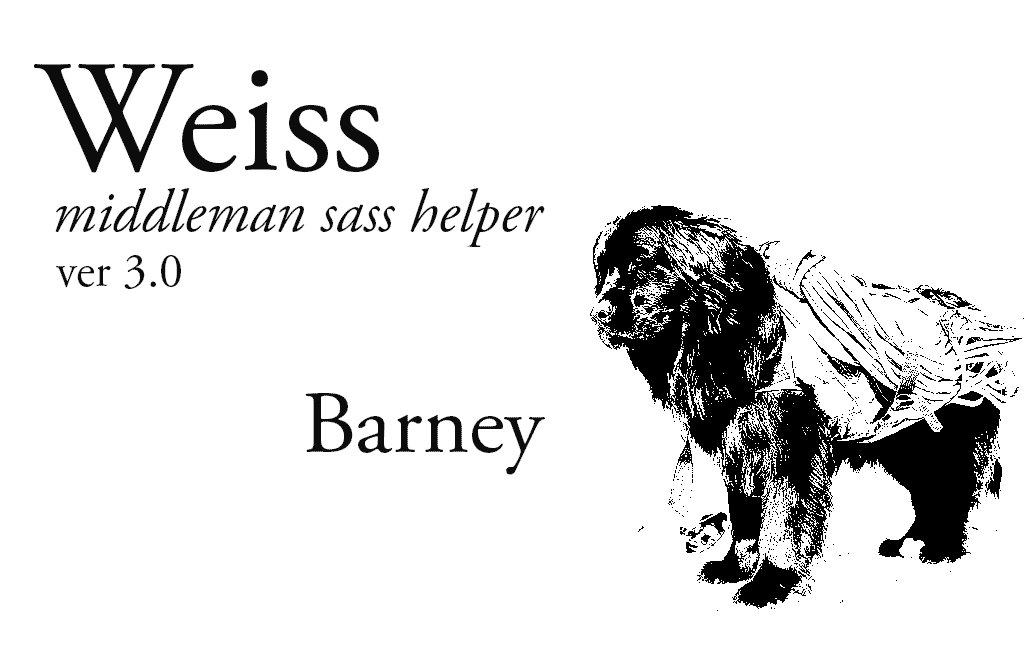
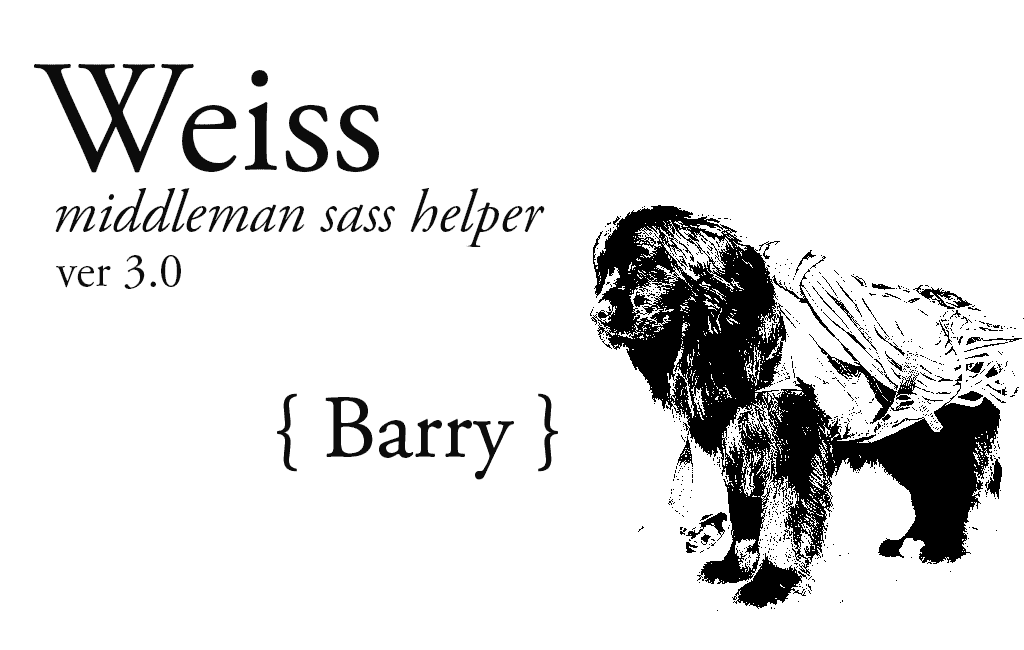
CHANGE: gemfile, Readme, content-example-img

Changed region(s): [[0.25, 0.5846, 0.5625, 0.7385]]

diff --git a/README.md b/README.md
@@ -6,16 +6,25 @@ Some parts are based on works Nicolas Gallagher, Stefan Nitzsche, Tyler Tate, Ya
 
 ## About
 
-Weiss is HTML5-CSS3 blank canvas sass-compass-middleman helper with media query and grid system for fast-start development.
+Weiss is HTML5-CSS3 blank canvas sass-middleman helper for fast-start development.
+Based around tasks and problems that arise with me every day on my work - so in some cases it is not universal or full production ready framework.
 
-Build with HTML5 and large parts of CSS3, included fluid markup and media queries structure, so you can support mobile devices in one CSS file.
-Based around tasks and problems that arise with me every day in my work - so in some cases it is not universal or full production ready framework.
+### Main features:
 
-![Weiss version 3.0 (Barney)](https://raw.github.com/dimanech/weiss/master/source/images/example/content-example-img.png)
+* Not a prototyping tool like Bootstrap or Foundation, just blank canvas
+* Middelman/sass/compass
+* BEM structure of blocks
+* HTML5 semantic markup
+* CSS3 ready with mixins for working with vendor prefixes
+* Media Query structure and mixins
+* WAI ARIA support
+* Hg/Git -ignore
+
+![Weiss version 3.0 (Barry)](https://raw.github.com/dimanech/weiss/master/source/images/example/content-example-img.png)
 
 ## Change Log
 
-**[v3](https://github.com/dimanech/weiss/archive/v3.zip)**
+**[v3.0](https://github.com/dimanech/weiss/archive/v3.0.zip)**
 
 * Forwarding all framework to Middleman!
 
